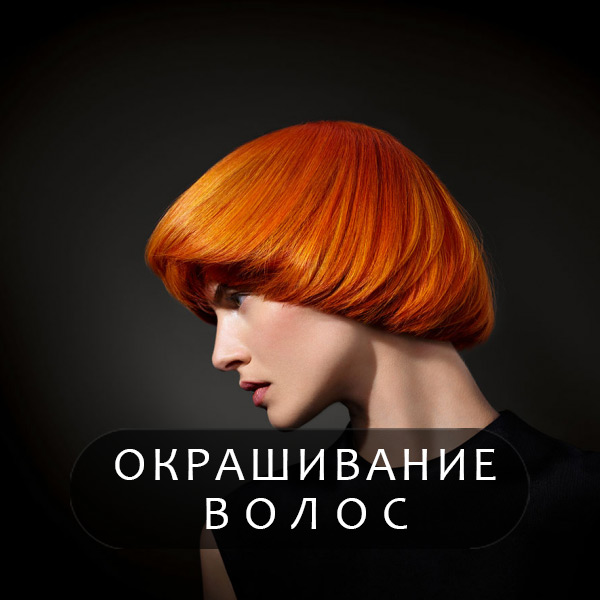
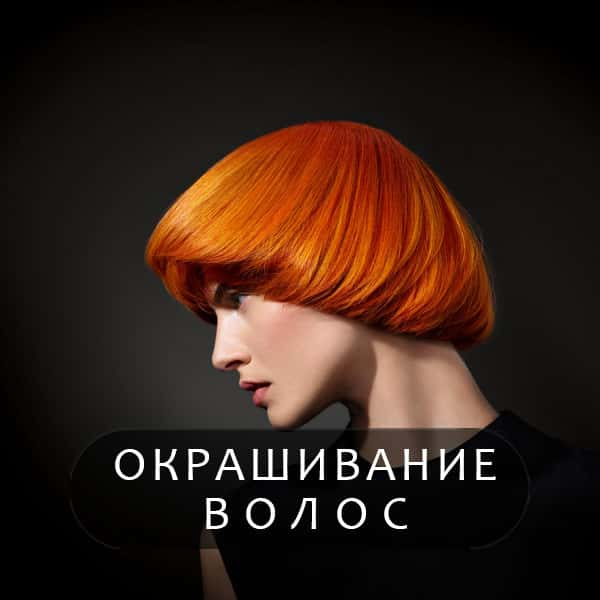
optimize images, fix accesibility and SEO

diff --git a/index.html b/index.html
@@ -1,9 +1,10 @@
 <!DOCTYPE html>
-<html lang="en">
+<html lang="ru">
   <head>
     <meta charset="UTF-8" />
     <meta name="viewport" content="width=device-width, initial-scale=1.0" />
     <meta http-equiv="X-UA-Compatible" content="ie=edge" />
+    <meta name="Description" content="Салон красоты печерский раен, центр Киева. Высококачественное оборудование.">
     <title>Fashion Plus Beauty Salon</title>
     <link rel="stylesheet" href="assets/css/bulma.min.css" />
     <link rel="stylesheet" href="assets/css/main.css" />
@@ -16,33 +17,33 @@
   </head>
   <body>
     <!-- Главное -->
-    <section id="hero">
+    <section class="lazy-background" id="hero">
       <nav class="navbar" role="navigation" aria-label="main navigation">
           <div class="navbar-brand">
             <a class="navbar-item">
               <div class="icons" style="text-align: end; font-size: 2rem;">
                 <span class="icon has-text-info">
-                  <img src="image/facebook.svg"></i>
+                  <img src="image/facebook.svg" alt="facebook logo"></i>
                 </span>
               </div>
               <a class="navbar-item">
                 <div class="icons" style="text-align: end; font-size: 2rem;">
                   <span class="icon has-text-info">
-                    <img src="image/instagram.svg"></i>
+                    <img src="image/instagram.svg" alt="instagram logo"></i>
                   </span>
                 </div>
               </a>
               <a class="navbar-item">
                 <div class="icons" style="text-align: end; font-size: 2rem;">
                   <span class="icon has-text-info">
-                    <img src="image/telegram.svg"></i>
+                    <img src="image/telegram.svg" alt="telegram logo"></i>
                   </span>
                 </div>
               </a>
               <a class="navbar-item">
                 <div class="icons" style="text-align: end; font-size: 2rem;">
                   <span class="icon has-text-info">
-                    <img src="image/viber.svg"></i>
+                    <img src="image/viber.svg" alt="viber logo"></i>
                   </span>
                 </div>
               </a>
@@ -65,17 +66,17 @@
             <div class="navbar-end">
               <a class="navbar-item">
                 <span class="icon"> 
-                  <img src="image/marker.svg"></i></span
+                  <img src="image/marker.svg" alt="marker"></i></span
                 >Киев, бульв. Леси Украинки 7Б<br />+38 (067) 599 11 77
               </a>
               <a class="navbar-item">
                 <span class="icon"> 
-                  <img src="image/marker.svg"></i></span
+                  <img src="image/marker.svg" alt="marker"></i></span
                 >Киев, ул. Академика Вильямса 6а<br />+38 (067) 599 11 77
               </a>
               <a class="navbar-item">
                 <span class="icon">
-                  <img src="image/marker.svg"></i></span
+                  <img src="image/marker.svg" alt="marker"></i></span
                 >Киев, ул. Кудряшова 20а<br />+38 (067) 599 11 77
               </a>
             </div>
@@ -100,8 +101,9 @@
     >
       <h2>Наши салоны</h2>
       <div class="tour">
-        <img id="tourControl" src="image/tourPlaceholder.jpg" alt="" />
+        <img id="tourControl" src="image/tourPlaceholder.jpg" alt="photo tour placeholder" />
         <iframe
+        title="Салон красоты 360 тур"
           id="myTour"
           src="about:blank"
           data-src="https://inspiring-boyd-5fc2bc.netlify.com/"
@@ -117,19 +119,17 @@
     <section id="main">
       <div class="columns" id="mainimg">
         <div class="column">
-          <img class="lazy" src="image/lazy/image/1-big.jpg" data-src="image/image/1-big.jpg" data-srcset="image/image/1-big.jpg" alt="Интеъер салона" />
-          <h2>Инновационный аппарат</h2>
+            <img class="lazy" src="image/lazy/1-big.jpg" data-src="image/1-big.jpg" data-srcset="image/1-big.jpg" alt="Фото использования инновационного апарата Альтера" />
         </div>
         <div class="column">
-          <img src="image/2-big.jpg" alt="" />
-          <h2>Косметология</h2>
+            <img class="lazy" src="image/lazy/2-big.jpg" data-src="image/2-big.jpg" data-srcset="image/2-big.jpg" alt="Фото косметологического кабинета" />
         </div>
       </div>
     </section>
     <!-- Услуги -->
     <section
       id="services"
-      style="background-image: url(image/3.jpg)"
+      class="lazy-background"
     >
       <!-- Обе колонки -->
       <div class="columns is-multiline">
@@ -464,7 +464,6 @@
               </div>
               <div class="column is-half">
                 <img class="lazy" src="image/lazy/pricheski-s-kosami.jpg" data-src="image/pricheski-s-kosami.jpg" data-srcset="image/pricheski-s-kosami.jpg" alt="Пример плетения кос" />
-                
               </div>
             </div>
           <!-- Брови -->
@@ -627,7 +626,7 @@
         <div class="container">
           <div class="columns">
             <div class="column">
-              <a href="">Заказать звонок</a>
+              <a href="#appointment">Заказать звонок</a>
             </div>
             <div class="column">
               <a href="#appointment">Подробнее</a>
@@ -642,8 +641,7 @@
     <!-- Специалисты -->
     <section
       id="specialists"
-      style="background-image: url(image/4.jpg)"
-      class="section"
+      class="lazy-background section"
     >
       <h2>Наши Специалисты</h2>
       <div class="container">
@@ -651,7 +649,7 @@
           <div class="column is-half">
             <div class="container">
               <div class="content">
-                <img class="lazy" src="image/lazy/Кадр_масочка_на_лице2.jpg" data-src="image/Кадр_масочка_на_лице2.png" data-srcset="image/Кадр_масочка_на_лице2.png" alt="Фото первого специалиста" />
+                <img class="lazy" src="image/lazy/Кадр_масочка_на_лице2.jpg" data-src="image/Кадр_масочка_на_лице2.jpg" data-srcset="image/Кадр_масочка_на_лице2.jpg" alt="Фото первого специалиста" />
                 <h3>Задорожная Елена Анатольевна</h3>
                 <h4>Ведущий доктор-косметолог</h4>
                 <p>
@@ -667,7 +665,7 @@
           </div>
           <div class="column is-half">
             <div class="content">
-                <img class="lazy" src="image/lazy/Кадр_масочка_на_лице1.jpg" data-src="image/Кадр_масочка_на_лице1.png" data-srcset="image/Кадр_масочка_на_лице1.png" alt="Фото второго специалиста" />
+                <img class="lazy" src="image/lazy/Кадр_масочка_на_лице1.jpg" data-src="image/Кадр_масочка_на_лице1.jpg" data-srcset="image/Кадр_масочка_на_лице1.jpg" alt="Фото второго специалиста" />
               <h3>Задорожная Елена Анатольевна</h3>
               <h4>Ведущий доктор-косметолог</h4>
               <p>
@@ -695,7 +693,7 @@
           <div class="columns">
             <div class="column is-1"></div>
             <div class="column is-3">
-                <img class="lazy" src="image/lazy/Кадр_фото_кліента.jpg" data-src="image/Кадр_фото_кліента.png" data-srcset="image/Кадр_фото_кліента.png" alt="Фото клиента" />
+                <img class="lazy" src="image/lazy/Кадр_фото_кліента.jpg" data-src="image/Кадр_фото_кліента.jpg" data-srcset="image/Кадр_фото_кліента.jpg" alt="Фото клиента" />
             </div>
             <div class="column is-1"></div>
             <div class="column is-5">
@@ -716,8 +714,7 @@
     <!-- Запись -->
     <section
       id="appointment"
-      class="section is-medium"
-      style="background-image: url(image/4bde5fb9ee3399a5d365b82f04516f56.jpg); background-size: cover;"
+      class="lazy-background section is-medium"
     >
       <div class="container">
         <h2>Онлайн Запись</h2>
@@ -729,13 +726,13 @@
             <div class="column is-one-third-desktop">
               <!-- All elements must have a name attribute -->
               <div class="field">
-                <label class="label">Как к Вам обращаться?</label>
+                <label class="label" for="user-name">Как к Вам обращаться?</label>
                 <div class="control">
-                  <input class="input" type="text" placeholder="Ваше имя" />
+                  <input id="user-name" class="input" type="text" placeholder="Ваше имя" />
                 </div>
               </div>
               <div class="field">
-                <div class="field-label">Ваш телефон</div>
+                <div class="field-label"><label for="tel-number">Ваш телефон</label> </div>
                 <div class="field-body">
                   <div class="field is-expanded">
                     <div class="field has-addons">
@@ -745,7 +742,7 @@
                         </a>
                       </p>
                       <p class="control is-expanded">
-                        <input
+                        <input id="tel-number"
                           class="input"
                           type="tel"
                           placeholder="93 111 1111"
@@ -756,21 +753,21 @@
                 </div>
               </div>
               <div class="field">
-                <label class="label">Дата и время посещения</label>
+                <label class="label" for="date-and-time">Дата и время посещения</label>
                 <div class="control">
-                  <input class="input" type="datetime-local" placeholder="Укажите дату посещения" />
+                  <input id="date-and-time" class="input" type="datetime-local" placeholder="Укажите дату посещения" />
                 </div>
               </div>
               <!-- A button of type submit -->
             </div>
             <div class="column is-two-thirds-desktop">
               <div class="field">
-                <label class="label">
+                <label class="label" for="place-of-service">
                   Салон
                 </label>
                 <div class="control is-expanded">
                   <div class="select is-fullwidth">
-                    <select>
+                    <select id="place-of-service">
                       <option>Выберите самый подходящий салон</option>
                       <option>Киев, печерск бульв. Леси Украинки 7Б</option>
                       <option>Киев, ул. Академика Вильямса 6а</option>
@@ -780,12 +777,12 @@
                 </div>
               </div>
               <div class="field">
-                <label class="label">
+                <label class="label" for="service-type">
                   Услуга
                 </label>
                 <div class="control is-expanded">
                   <div class="select is-fullwidth">
-                    <select>
+                    <select id="service-type">
                       <option>Выберите нужную услугу</option>
                       <option>Альтера</option>
                       <option>Косметология</option>
@@ -810,9 +807,9 @@
                 </div>
               </div>
               <div class="field">
-                <label class="label">Ваш коментарий</label>
+                <label class="label" for="comment">Ваш коментарий</label>
                 <div class="control">
-                  <input
+                  <input id="comment"
                     class="input"
                     type="text"
                     placeholder="Что Вас интересует?"
@@ -828,8 +825,7 @@
     <!-- Контакты -->
     <section
       id="contacts"
-      style="background-image: url(image/5.jpg); background-size: cover;"
-      class="section is-medium"
+      class="lazy-background section is-medium"
     >
       <div class="container">
         <h2>Наши контакты</h2>
@@ -837,19 +833,19 @@
           <div class="columns is-mobile">
             <div class="column">
               <span class="icon">
-                <img src="image/marker.svg"></i>
+                <img src="image/marker.svg" alt="marker"></i>
               </span>
               <h3>Печерск</h3>
             </div>
             <div class="column">
               <span class="icon">
-                <img src="image/marker.svg"></i>
+                <img src="image/marker.svg" alt="marker"></i>
               </span>
               <h3>Теремки</h3>
             </div>
             <div class="column">
               <span class="icon">
-                <img src="image/marker.svg"></i>
+                <img src="image/marker.svg" alt="marker"></i>
               </span>
               <h3>Соломенка</h3>
             </div>
@@ -884,16 +880,16 @@
           </p>
           <div class="icons" style="text-align: end; font-size: 3rem;">
             <span class="icon has-text-info">
-              <img src="image/facebook.svg"></i>
+              <img src="image/facebook.svg" alt="facebook logo"></i>
             </span>
             <span class="icon has-text-success">
-              <img src="image/instagram.svg"></i>
+              <img src="image/instagram.svg" alt="instagram logo"></i>
             </span>
             <span class="icon has-text-warning">
-              <img src="image/telegram.svg"></i>
+              <img src="image/telegram.svg" alt="telegram logo"></i>
             </span>
             <span class="icon has-text-danger">
-              <img src="image/viber.svg"></i>
+              <img src="image/viber.svg" alt="viber logo"></i>
             </span>
           </div>
         </div>
@@ -901,7 +897,7 @@
     </section>
     <!-- Карта -->
     <section class="map">
-      <iframe
+      <iframe title="Карта сети салонов красоты Fashionplus"
         src="https://www.google.com/maps/d/embed?mid=1VEBVLvgMYOyaMIruMB3uPQiKSInU8Tar"
         width="100%"
         height="100%"

diff --git a/assets/css/main.css b/assets/css/main.css
@@ -75,6 +75,7 @@ font-family: "Philosopher", sans-serif;
   }
   #reviews img {
     max-width: 70%;
+    border-radius: 50%;
   }
   #specialists img {
     max-width: 60% !important;
@@ -117,8 +118,11 @@ font-family: "Philosopher", sans-serif;
 @media screen and (min-width: 1300px) {
   #hero {
     height: 1134px;
-    background-image: url(../../image/Web_1920–1.jpg);
+    background-image: url(../../image/lazy/Web_1920–1.jpg);
     background-position: center;
+  }
+  #hero.visible {
+    background-image: url(../../image/Web_1920–1.jpg);
   }
   #tours {
     background-image: url(../../image/Web-1920-–-2.jpg);
@@ -785,4 +789,33 @@ span.icon {
   .navbar-item {
     font-size: 0.9rem;
   }
+}
+
+
+/* Backgrounds */
+#specialists {
+  background-image: url(../../image/4.jpg);
+}
+/* #specialists.visible {
+  background-image: url(../../image/4.jpg);
+} */
+#contacts {
+  background-image: url(../../image/5.jpg);
+  background-size: cover;
+}
+/* #contacts.visible {
+  background-image: url(../../image/5.jpg);
+} */
+#services {
+  background-image: url(../../image/3.jpg)
+}
+/* #services.visible {
+  background-image: url(../../image/3.jpg)
+} */
+#appointment {
+  background-image: url(../../image/lazy/4bde5fb9ee3399a5d365b82f04516f56.jpg); 
+  background-size: cover;
+}
+#appointment.visible {
+  background-image: url(../../image/4bde5fb9ee3399a5d365b82f04516f56.jpg);
 }

diff --git a/assets/js/lazy.js b/assets/js/lazy.js
@@ -21,3 +21,24 @@ document.addEventListener("DOMContentLoaded", function() {
     // Possibly fall back to a more compatible method here
   }
 });
+
+
+document.addEventListener("DOMContentLoaded", function() {
+  var lazyBackgrounds = [].slice.call(document.querySelectorAll(".lazy-background"));
+
+  if ("IntersectionObserver" in window) {
+    let lazyBackgroundObserver = new IntersectionObserver(function(entries, observer) {
+      entries.forEach(function(entry) {
+        if (entry.isIntersecting) {
+          entry.target.classList.add("visible");
+          lazyBackgroundObserver.unobserve(entry.target);
+        }
+      });
+    });
+
+    lazyBackgrounds.forEach(function(lazyBackground) {
+      lazyBackgroundObserver.observe(lazyBackground);
+    });
+  }
+});
+
